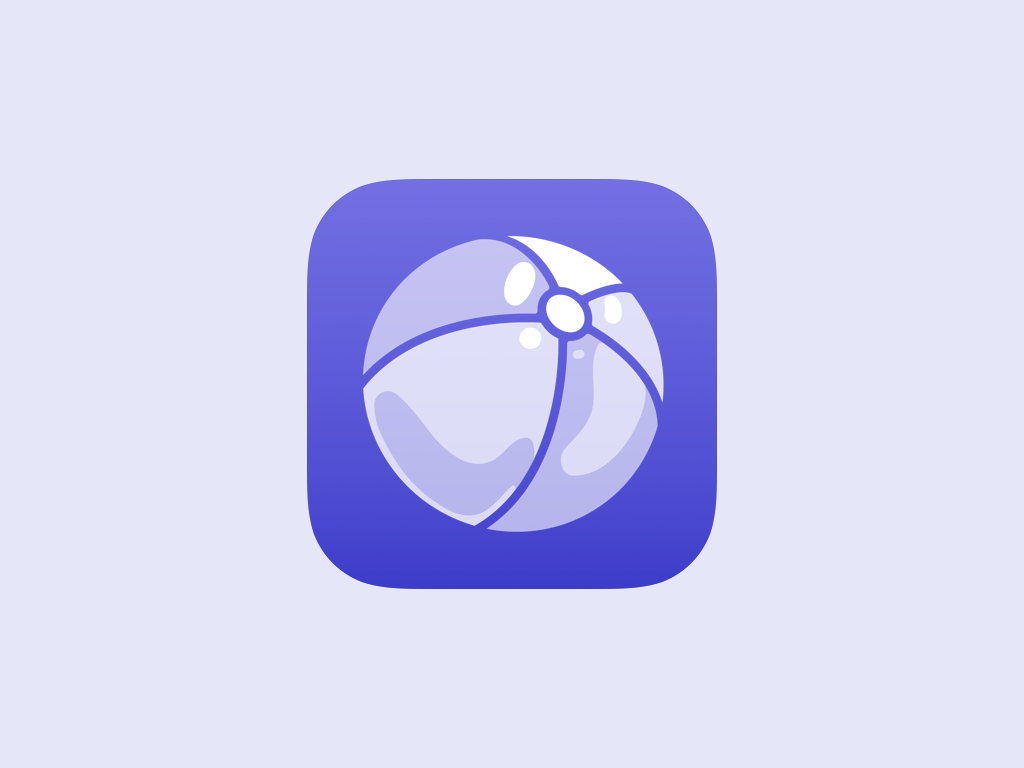
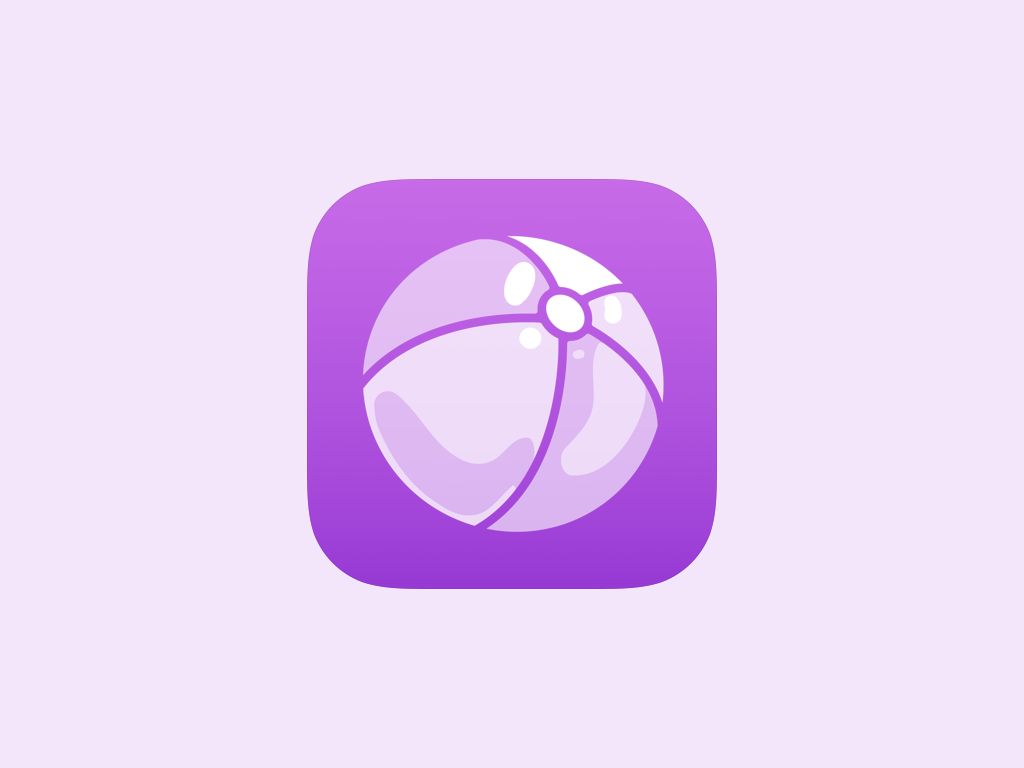
GPTThrowingStream  10/05/2025-4

Changed region(s): [[0.2812, 0.2188, 0.7188, 0.7812]]

diff --git a/GPTThrowingStream.swiftpm/ContentView.swift b/GPTThrowingStream.swiftpm/ContentView.swift
@@ -1,69 +1,78 @@
-// GPTThrowingStream  10/05/2025-2
-// CoreMotion attitude quaternion AsyncThrowingStream
+// GPTThrowingStream  10/05/2025-4
+// CoreMotion attitude quaternion AsyncThrowingStream MVVM Paradigm
 // 
 
 import SwiftUI
-import CoreMotion
-
+// ContentView
 struct ContentView: View {
+    @StateObject var viewModel = MotionViewModel()
+    
     var body: some View {
         VStack {
-            Image(systemName: "globe")
-                .imageScale(.large)
-                .foregroundColor(.accentColor)
-            Text("Hello, nucklehead!")
-        }
-        .font(.title)
-    }
-}
-
-import CoreMotion
-import Foundation
-
-// Function to get the motion attitude as a stream
-func getAttitudeStream() -> AsyncThrowingStream<CMQuaternion, Error> {
-    AsyncThrowingStream { continuation in
-        // Set up CMMotionManager
-        let motionManager = CMMotionManager()
-        
-        // Check if the device supports attitude updates
-        guard motionManager.isDeviceMotionAvailable else {
-            continuation.finish(throwing: NSError(domain: "MotionManagerError", code: 1, userInfo: [NSLocalizedDescriptionKey: "Device motion is not available"]))
-            return
-        }
-        
-        // Start receiving device motion data
-        motionManager.deviceMotionUpdateInterval = 1 / 60.0 // Update every 1/60 seconds (60Hz)
-        
-        motionManager.startDeviceMotionUpdates(to: .main) { (motionData, error) in
-            if let error = error {
-                continuation.finish(throwing: error)
-                return
-            }
-            
-            // Retrieve the quaternion from the device motion
-            if let motion = motionData {
-                let quaternion = motion.attitude.quaternion
-                continuation.yield(quaternion)
+            if let quaternion = $viewModel.quaternion {
+                Text("Quaternion: \(quaternion.w), \(quaternion.x), \(quaternion.y), \(quaternion.z)")
+                    .padding()
+            } else {
+                Text("Waiting for motion data...")
+                    .padding()
             }
         }
-        
-        // Ensure to stop motion updates when the stream finishes
-        continuation.onTermination = { _ in
-            motionManager.stopDeviceMotionUpdates()
+        .onAppear {
+            // The ViewModel will start streaming as soon as the view appears
+        }
+        .onDisappear {
+            // Optionally handle cleanup or stop streaming here
         }
     }
 }
 
-// Usage: Calling the async stream and handling the values
-Task {
-    do {
-        let attitudeStream = getAttitudeStream()
-        for try await quaternion in attitudeStream {
-            // Process quaternion data here
-            print("Quaternion: \(quaternion)")
-        }
-    } catch {
-        print("Error receiving attitude data: \(error)")
-    }
-}
+//import CoreMotion
+//import Foundation
+//
+//// Function to get the motion attitude as a stream
+//func getAttitudeStream() -> AsyncThrowingStream<CMQuaternion, Error> {
+//    AsyncThrowingStream { continuation in
+//        // Set up CMMotionManager
+//        let motionManager = CMMotionManager()
+//        
+//        // Check if the device supports attitude updates
+//        guard motionManager.isDeviceMotionAvailable else {
+//            continuation.finish(throwing: NSError(domain: "MotionManagerError", code: 1, userInfo: [NSLocalizedDescriptionKey: "Device motion is not available"]))
+//            return
+//        }
+//        
+//        // Start receiving device motion data
+//        motionManager.deviceMotionUpdateInterval = 1 / 60.0 // Update every 1/60 seconds (60Hz)
+//        
+//        motionManager.startDeviceMotionUpdates(to: .main) { (motionData, error) in
+//            if let error = error {
+//                continuation.finish(throwing: error)
+//                return
+//            }
+//            
+//            // Retrieve the quaternion from the device motion
+//            if let motion = motionData {
+//                let quaternion = motion.attitude.quaternion
+//                continuation.yield(quaternion)
+//            }
+//        }
+//        
+//        // Ensure to stop motion updates when the stream finishes
+//        continuation.onTermination = { _ in
+//            motionManager.stopDeviceMotionUpdates()
+//        }
+//    }
+//}
+
+//// Usage: Calling the async stream and handling the values
+//Task {
+//    do {
+//        let attitudeStream = getAttitudeStream()
+//        for try await quaternion in attitudeStream {
+//            // Process quaternion data here
+//            print("Quaternion: \(quaternion)")
+//        }
+//    } catch {
+//        print("Error receiving attitude data: \(error)")
+//    }
+//}

diff --git a/GPTThrowingStream.swiftpm/MotionModel.swift b/GPTThrowingStream.swiftpm/MotionModel.swift
@@ -1,0 +1,42 @@
+// MotionModel
+//  
+
+import CoreMotion
+import Foundation
+
+// Model for handling device motion
+class MotionModel {
+    private let motionManager = CMMotionManager()
+    
+    // This method returns an AsyncThrowingStream of quaternion data
+    func getAttitudeStream() -> AsyncThrowingStream<CMQuaternion, Error> {
+        AsyncThrowingStream { continuation in
+            // Check if device motion is available
+            guard motionManager.isDeviceMotionAvailable else {
+                continuation.finish(throwing: NSError(domain: "MotionManagerError", code: 1, userInfo: [NSLocalizedDescriptionKey: "Device motion not available"]))
+                return
+            }
+            
+            // Start receiving device motion data
+            motionManager.deviceMotionUpdateInterval = 1 / 60.0 // 60 Hz updates
+            motionManager.startDeviceMotionUpdates(to: .main) { (motionData, error) in
+                if let error = error {
+                    continuation.finish(throwing: error)
+                    return
+                }
+                
+                // Yield the quaternion from the motion data
+                if let motion = motionData {
+                    let quaternion = motion.attitude.quaternion
+                    continuation.yield(quaternion)
+                }
+            }
+            
+            // Stop updates when the stream is terminated
+            continuation.onTermination = { _ in
+                self.motionManager.stopDeviceMotionUpdates()
+            }
+        }
+    }
+}
+

diff --git a/GPTThrowingStream.swiftpm/MotionViewModel.swift b/GPTThrowingStream.swiftpm/MotionViewModel.swift
@@ -1,0 +1,41 @@
+//  MotionViewModel
+//  
+
+import Foundation
+import Combine
+
+class MotionViewModel: ObservableObject {
+    private var model: MotionModel
+    private var cancellables = Set<AnyCancellable>()
+    
+    // The published property for the View to observe
+    @Published var quaternion: CMQuaternion?
+    
+    init(model: MotionModel = MotionModel()) {
+        self.model = model
+        // Start receiving attitude data
+        startListeningForMotionData()
+    }
+    
+    private func startListeningForMotionData() {
+        // Launch an async task to listen to motion data
+        Task {
+            do {
+                let attitudeStream = model.getAttitudeStream()
+                for try await quat in attitudeStream {
+                    // Update the quaternion data
+                    DispatchQueue.main.async {
+                        self.quaternion = quat
+                    }
+                }
+            } catch {
+                // Handle error (e.g., show a message to the user)
+                DispatchQueue.main.async {
+                    self.quaternion = nil
+                    print("Error: \(error.localizedDescription)")
+                }
+            }
+        }
+    }
+}
+

diff --git a/GPTThrowingStream.swiftpm/Package.swift b/GPTThrowingStream.swiftpm/Package.swift
@@ -19,7 +19,7 @@ let package = Package(
             displayVersion: "1.0",
             bundleVersion: "1",
             appIcon: .placeholder(icon: .beachball),
-            accentColor: .presetColor(.indigo),
+            accentColor: .presetColor(.purple),
             supportedDeviceFamilies: [
                 .pad,
                 .phone
